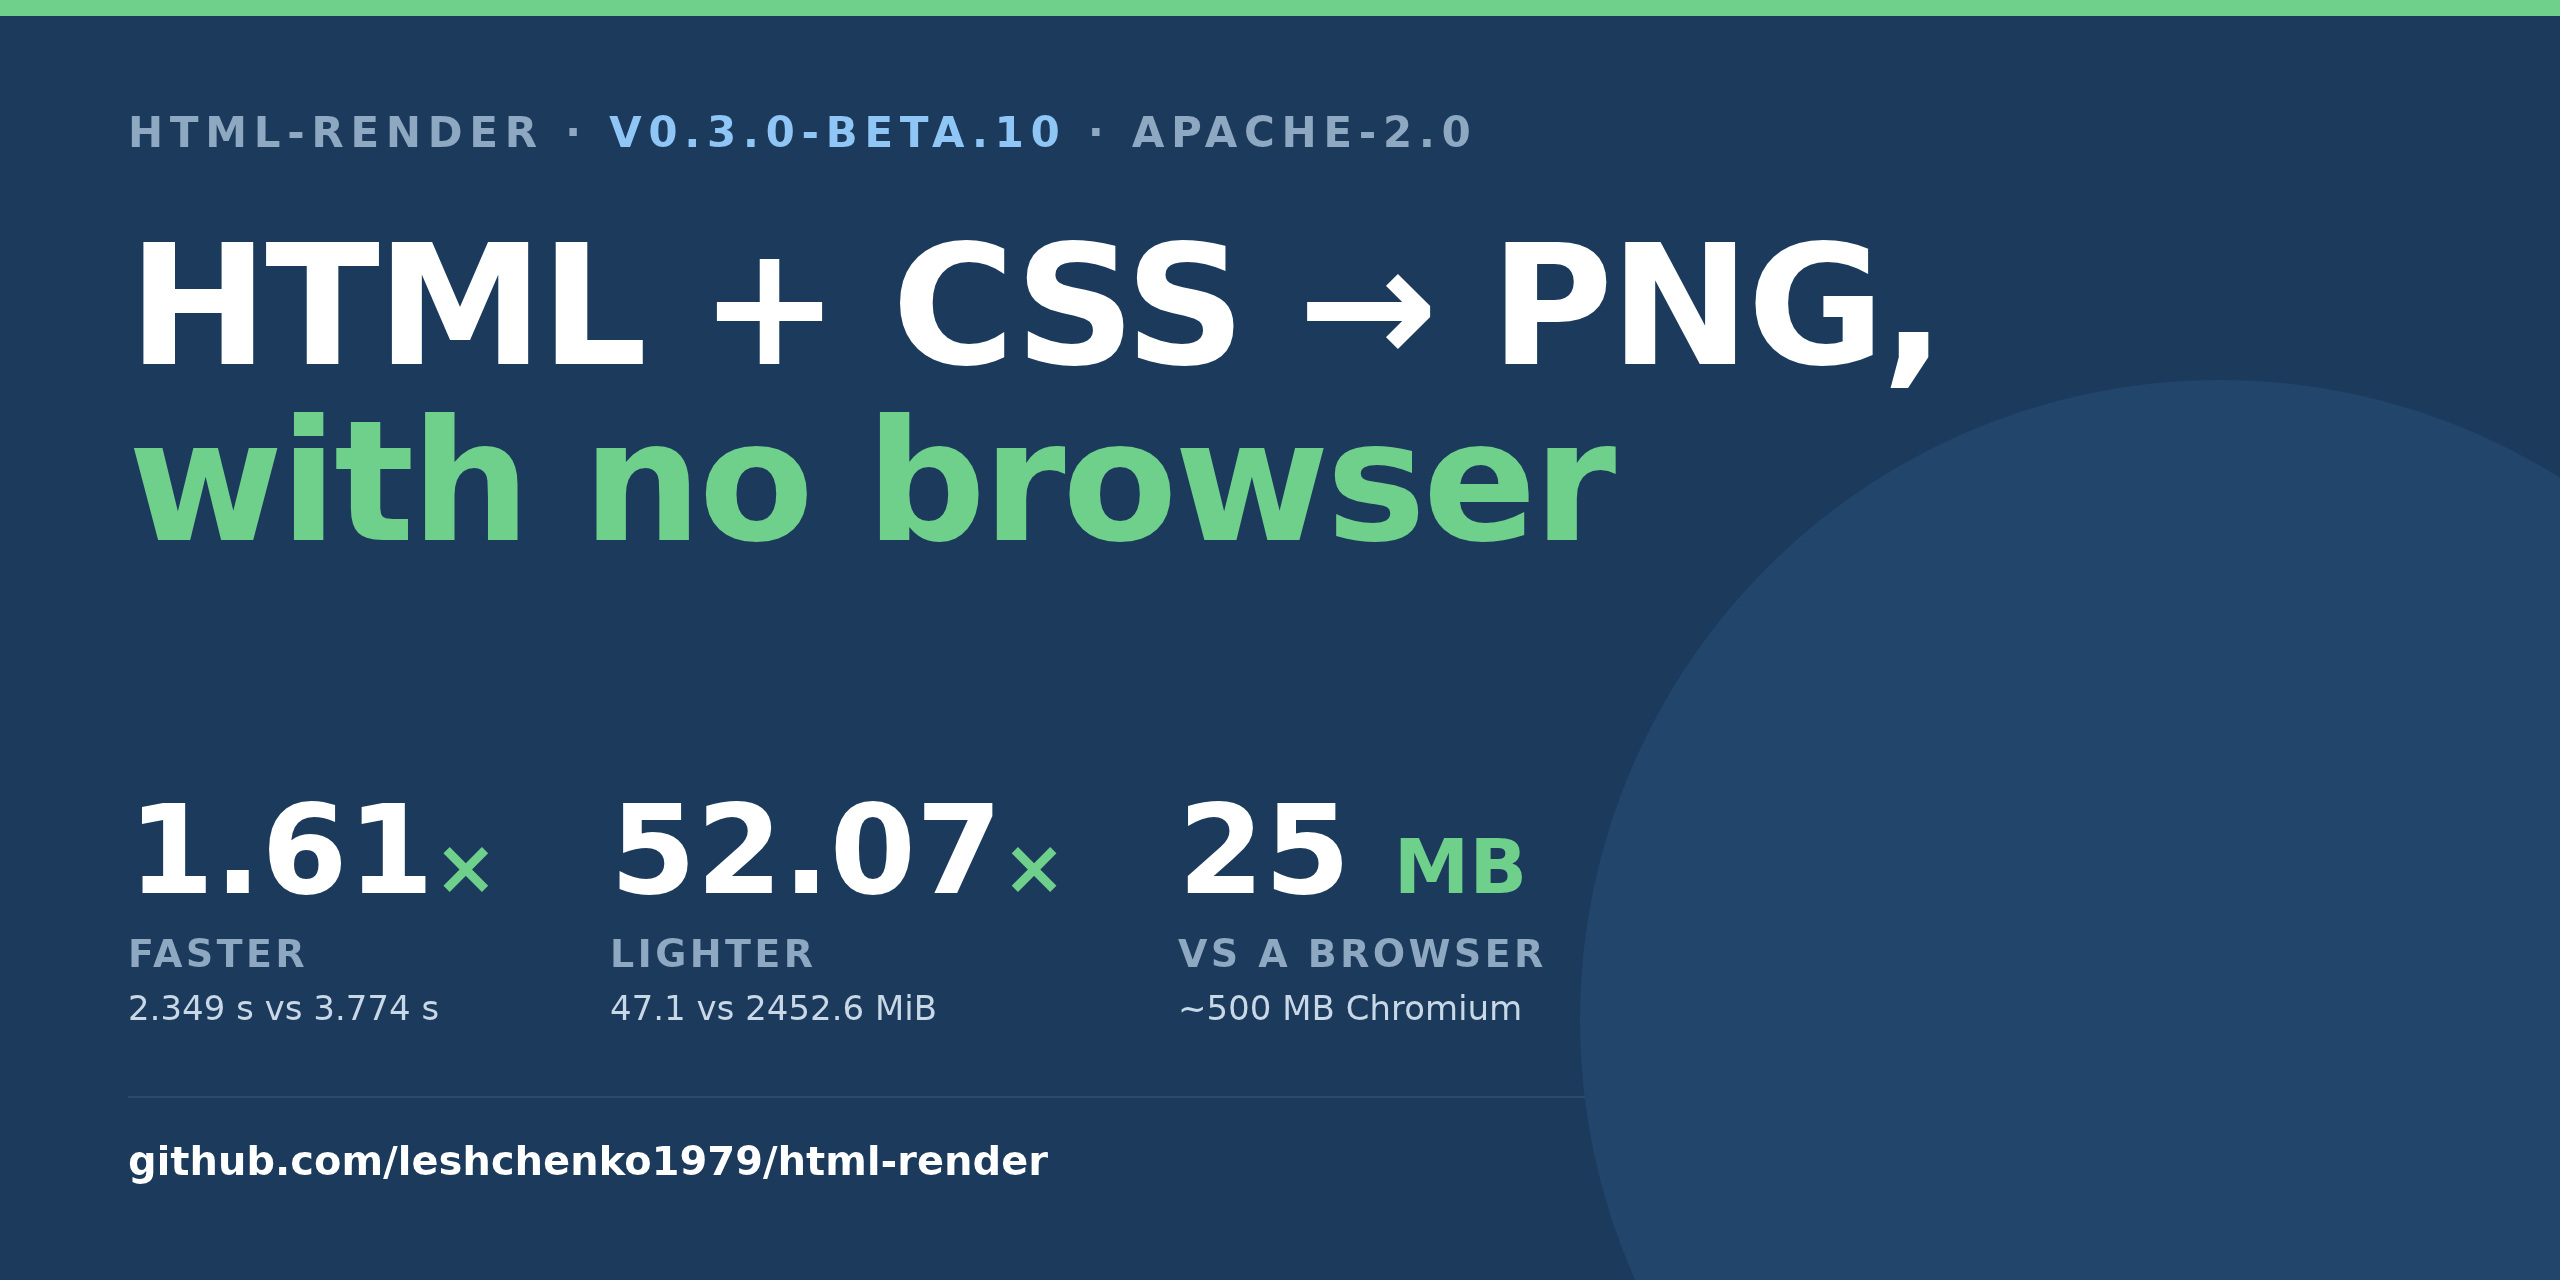
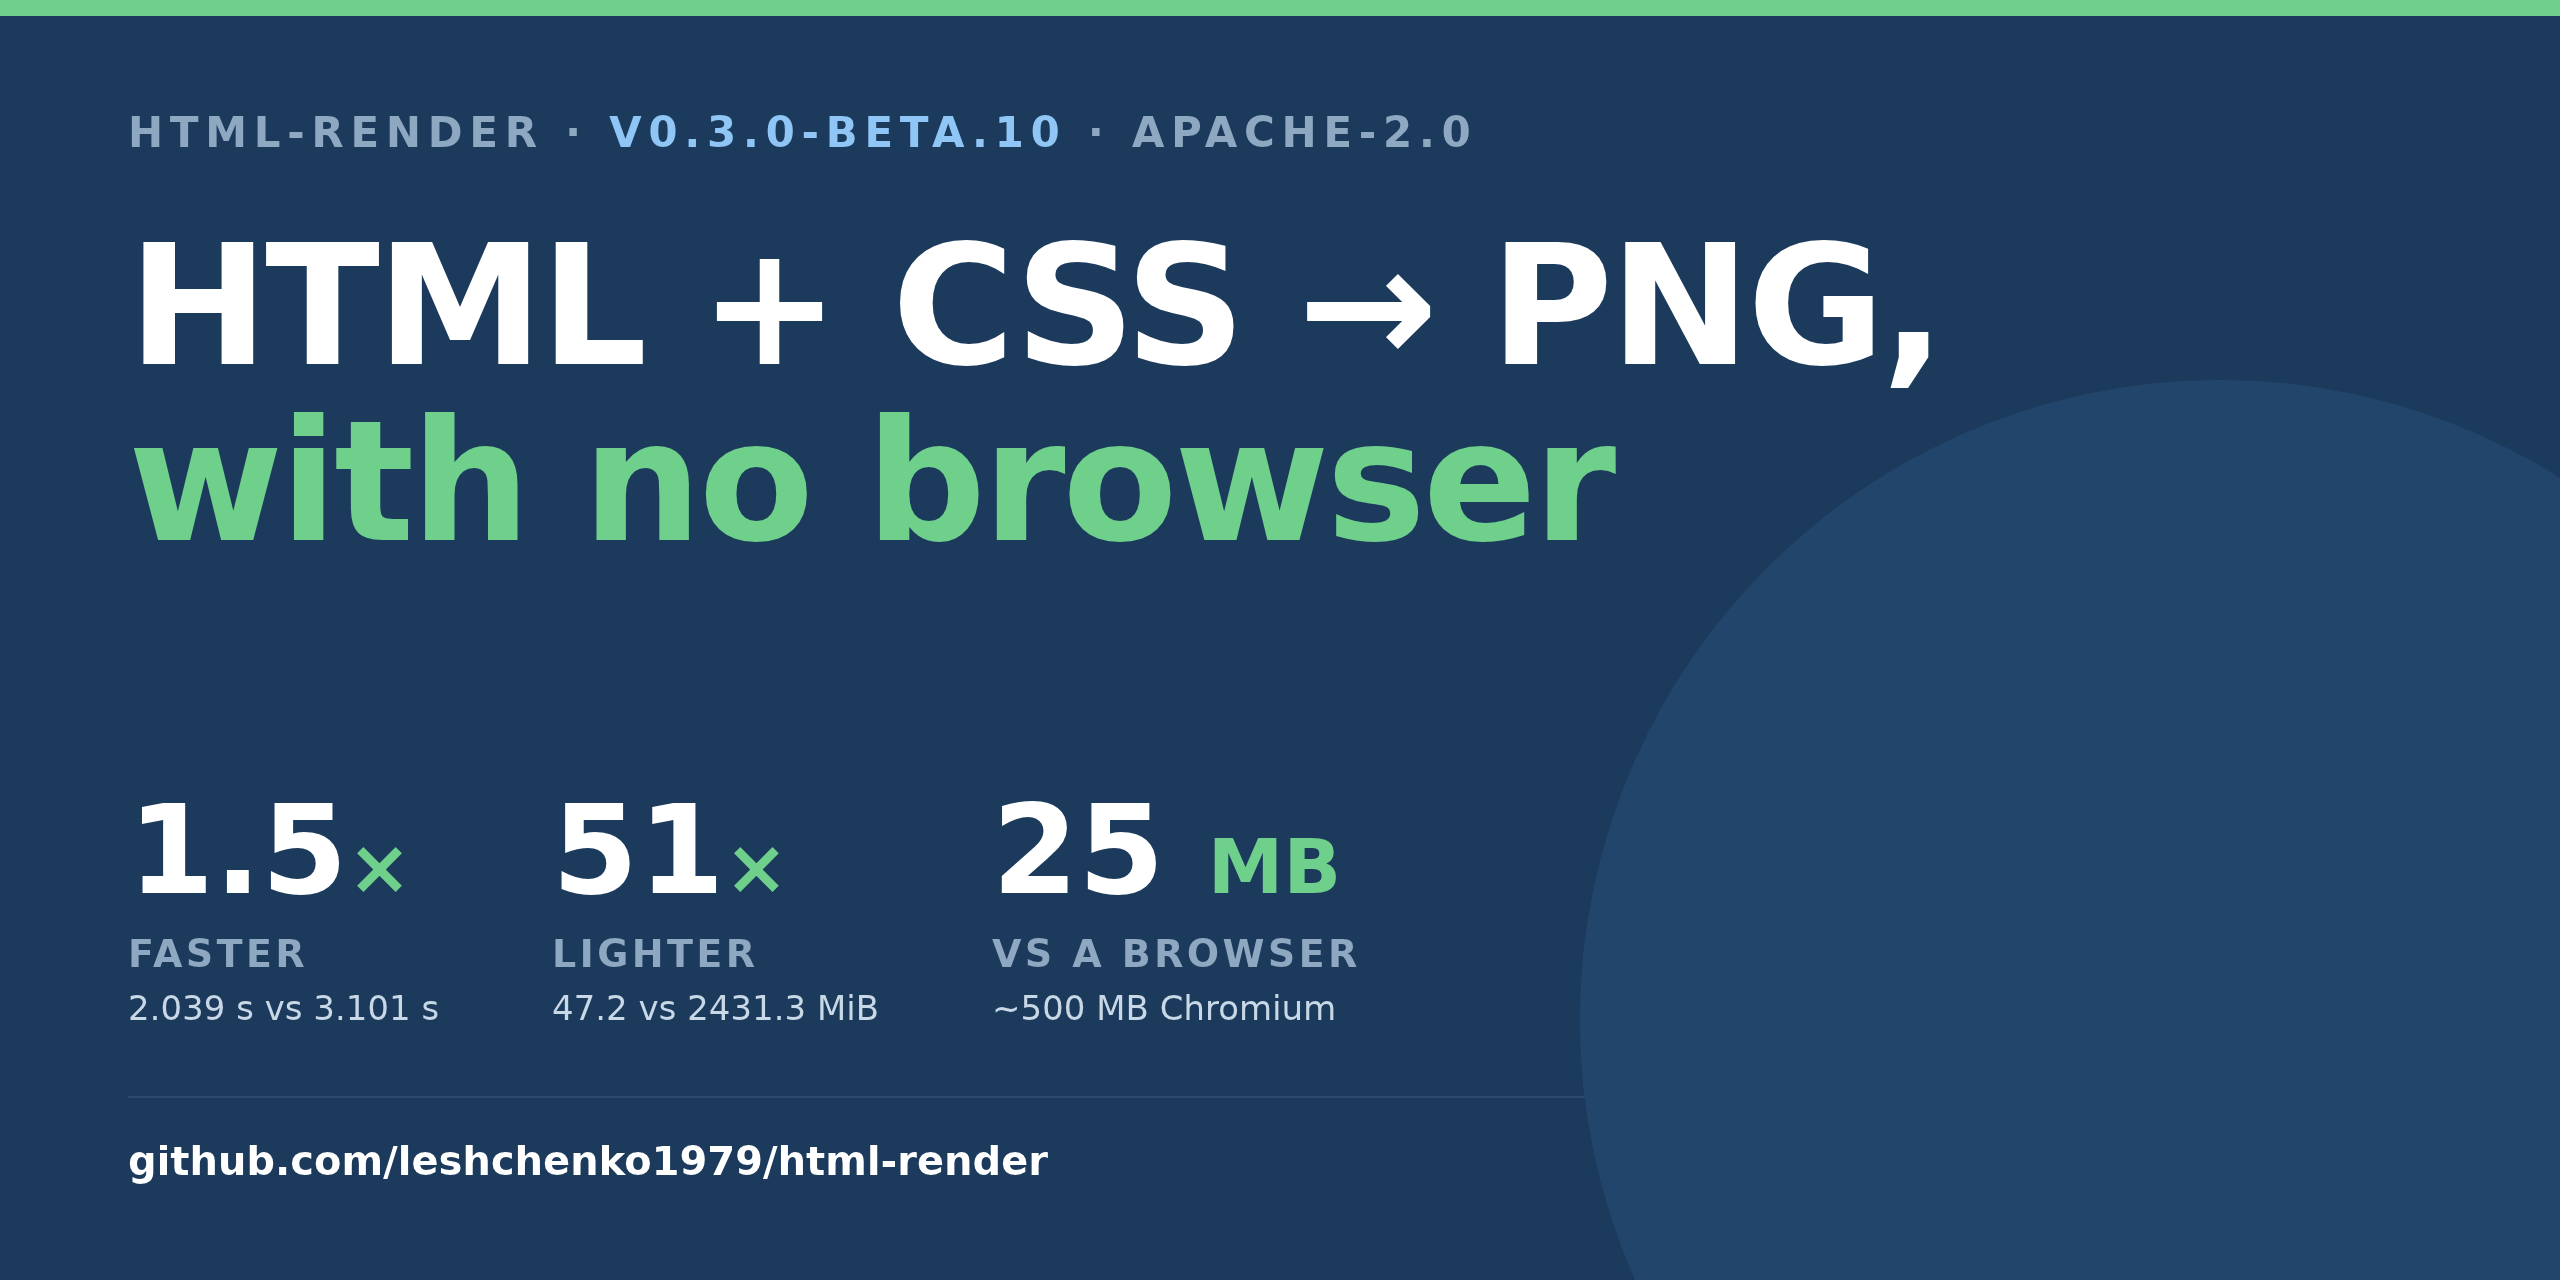
docs(bench): quote the run that measured determinism, not the one before it
The receipt behind every advertised figure is now run 43754284965 (7bfc62e),
the first run whose probe hashed every repeat. Four runs on one runner image,
all measuring the same deck (md5 5c71602d), say why a point value was never
safe:

  1. 43744837000: Chromium 3.186 s / 2336.1 MiB, ours 2.240 s / 37.9 MiB
     -> 1.42x wall, 61.64x tree RSS
  2. 43746767310: Chromium 3.774 s / 2452.6 MiB, ours 2.352 s / 37.7 MiB
     -> 1.60x, 65.06x
  3. 43752965645: Chromium 3.250 s / 2389.6 MiB, ours 2.292 s / 37.8 MiB
     -> 1.42x, 63.22x
  4. 43754284965: Chromium 3.101 s / 2431.3 MiB, ours 2.042 s / 37.7 MiB
     -> 1.52x, 64.49x

html-render moved 15.2% across those four and Chromium 21.7%, which falsifies
the sentence claiming the spread was the browser's alone: both engines move,
the browser more, and the ratio is why the claim is a range. The wall ratio
stayed inside 1.42-1.60x for every run, so the advertised 1.4-1.6x survives
the refresh; the memory floor moves 50x -> 51x because the floor is derived.

The hero and og assets carried five SECOND copies of the same two medians --
the right panel's four bar values and the terminal footer -- still showing the
previous run's numbers after the stat cards above them had been updated. All
five now quote the receipt. The history table's 1.61x for run 43746767310 was
hand-typed; 3.774/2.352 is 1.60x, and the fourth row is added.

Assets re-rendered with the binary the receipt names (sha256 de69ad53, the
[…]

diff --git a/assets/hero.html b/assets/hero.html
@@ -149,18 +149,18 @@ h1 span{color:var(--blue)}
 
       <div class="stats">
         <div class="stat">
-          <div class="v">1.61<em>×</em></div>
+          <div class="v">1.5<em>×</em></div>
           <div class="l">faster</div>
-          <div class="d">2.349 s vs 3.774 s</div>
+          <div class="d">2.039 s vs 3.101 s</div>
         </div>
         <div class="stat">
-          <div class="v">52.07<em>×</em></div>
+          <div class="v">51<em>×</em></div>
           <div class="l">lighter</div>
-          <div class="d">47.1 vs 2452.6 MiB</div>
+          <div class="d">47.2 vs 2431.3 MiB</div>
         </div>
         <div class="stat g">
           <div class="v">1 md5</div>
-          <div class="l">10 renders</div>
+          <div class="l">3 renders</div>
           <div class="d">one checksum</div>
         </div>
       </div>
@@ -174,35 +174,35 @@ h1 span{color:var(--blue)}
         <div class="metric">
           <div class="ml">Wall time · 8 slides at scale 2</div>
           <div class="bline">
-            <span class="bn">Chromium 151</span>
+            <span class="bn">Chromium 157</span>
             <span class="bt"><i style="width:100%"></i></span>
-            <span class="bv">3.774 s</span>
+            <span class="bv">3.101 s</span>
           </div>
           <div class="bline">
             <span class="bn">html-render</span>
-            <span class="bt"><i class="win" style="width:62.2%"></i></span>
-            <span class="bv win">2.349 s</span>
+            <span class="bt"><i class="win" style="width:65.8%"></i></span>
+            <span class="bv win">2.039 s</span>
           </div>
         </div>
 
         <div class="metric">
           <div class="ml">Peak RSS · whole process tree</div>
           <div class="bline">
-            <span class="bn">Chromium 151</span>
+            <span class="bn">Chromium 157</span>
             <span class="bt"><i style="width:100%"></i></span>
-            <span class="bv">2452.6 MiB</span>
+            <span class="bv">2431.3 MiB</span>
           </div>
           <div class="bline">
             <span class="bn">html-render</span>
             <span class="bt"><i class="win" style="width:1.9%"></i></span>
-            <span class="bv win">47.1 MiB</span>
+            <span class="bv win">47.2 MiB</span>
           </div>
         </div>
 
         <div class="metric">
           <div class="ml">Install size · what you ship</div>
           <div class="bline">
-            <span class="bn">Chromium 151</span>
+            <span class="bn">Chromium 157</span>
             <span class="bt"><i style="width:100%"></i></span>
             <span class="bv">~500 MB</span>
           </div>
@@ -233,7 +233,7 @@ h1 span{color:var(--blue)}
           <div class="o d">… 7 more, in document order</div>
         </div>
         <div class="tfoot">
-          One process, <b>8 slides</b>, <b>2.349 s</b>, <b>47.1 MiB</b> peak.
+          One process, <b>8 slides</b>, <b>2.039 s</b>, <b>47.2 MiB</b> peak.
         </div>
       </div>
 
@@ -243,7 +243,7 @@ h1 span{color:var(--blue)}
 
   <div class="foot">
     <div><b>github.com/leshchenko1979/html-render</b></div>
-    <div>4 vCPU · glibc 2.39 · reproducible with <b>tools/gates.py</b></div>
+    <div>4 vCPU · glibc 2.35 · reproducible with <b>tools/bench.py</b></div>
   </div>
 
 </div>

diff --git a/assets/og.html b/assets/og.html
@@ -65,14 +65,14 @@ h1 span{color:var(--green)}
 
   <div class="nums">
     <div class="n">
-      <div class="v">1.61<em>×</em></div>
+      <div class="v">1.5<em>×</em></div>
       <div class="l">faster</div>
-      <div class="d">2.349 s vs 3.774 s</div>
+      <div class="d">2.039 s vs 3.101 s</div>
     </div>
     <div class="n">
-      <div class="v">52.07<em>×</em></div>
+      <div class="v">51<em>×</em></div>
       <div class="l">lighter</div>
-      <div class="d">47.1 vs 2452.6 MiB</div>
+      <div class="d">47.2 vs 2431.3 MiB</div>
     </div>
     <div class="n">
       <div class="v">25 <em>MB</em></div>

diff --git a/GATES.md b/GATES.md
@@ -117,33 +117,52 @@ every process in the engine's tree**, which is what a container limit counts:
 
 | engine | wall | peak tree RSS |
 |---|---|---|
-| Chromium, one tall screenshot cut into eight slides | 3.774 s | 2452.6 MiB |
-| `--full` | **2.352 s** | **37.7 MiB** |
-| `--clip` (banded, one PNG per frame) | 2.386 s | 75.3 MiB |
-| `--clip --per-element` | 2.349 s | 47.1 MiB |
+| Chromium, one tall screenshot cut into eight slides | 3.101 s | 2431.3 MiB |
+| `--full` | **2.042 s** | **37.7 MiB** |
+| `--clip` (banded, one PNG per frame) | 2.067 s | 75.3 MiB |
+| `--clip --per-element` | 2.039 s | 47.2 MiB |
 
-Ratios against Chromium: **1.60×** wall and **65.06×** memory for `--full`,
-**1.58×** / **32.57×** for `--clip`, **1.61×** / **52.07×** for `--per-element`.
+Ratios against Chromium: **1.52×** wall and **64.49×** memory for `--full`,
+**1.50×** / **32.29×** for `--clip`, **1.52×** / **51.51×** for `--per-element`.
+
+The same probe, three times, on the same runner image and the same deck
+(`deck.html` md5 `5c71602d…` every time). A record, not a gate:
+
+| run | Chromium wall | html-render wall | ratio | Chromium tree RSS | html-render tree RSS | ratio |
+|---|---|---|---|---|---|---|
+| 43744837000 | 3.186 s | 2.240 s | 1.42× | 2336.1 MiB | 37.9 MiB | 61.64× |
+| 43746767310 | 3.774 s | 2.352 s | 1.60× | 2452.6 MiB | 37.7 MiB | 65.06× |
+| 43752965645 | 3.250 s | 2.292 s | 1.42× | 2389.6 MiB | 37.8 MiB | 63.22× |
+| 43754284965 | 3.101 s | 2.042 s | 1.52× | 2431.3 MiB | 37.7 MiB | 64.49× |
+
+The browser is the noisy side: 18.5 % across its own wall clock, against 5.0 %
+for html-render. So speed is stated as a range and memory as a floor — a point
+figure would be whichever run the receipt happened to catch.
 
 Two things this table does not claim.
 
 **Speed is a modest win, and the earlier 2.49× was not.** That figure came from a
 private deck where the Chromium harness also paid 2.94 s of settle sleeps;
 removing them left 1.94×. The probe drives Chromium as cheaply as it can be
-driven — one tall screenshot, no sleeps — so 1.6× is the honest race.
+driven — one tall screenshot, no sleeps — so 1.4–1.6× is the honest race.
 
 **The memory ratio is larger than what was published before, for a method
 reason, not a code change.** Earlier rows compared html-render's footprint with
-Chromium's *largest single process* (858 MiB). Summing the tree gives 2452.6 MiB
+Chromium's *largest single process* (858 MiB). Summing the tree gives 2389.6 MiB
 on the same engine, because the browser, GPU and renderer processes all hold
 memory at once. The undercount was measured before the probe existed: on
 `assets/demo-deck.html` Chromium's tree peaked at 1703.5–1826.2 MiB while its
 largest process read 297.1–299.2 MiB.
 
 `--clip` costs more than `--per-element` because it keeps one full-height canvas
-per band alive; both are `html-render` against itself, so neither is a
-cross-engine claim. They differ on 3,551 of 44,236,800 pixels (0.0080 %), max
-channel delta 2/255 — antialiasing at fractional offsets.
+per band alive. Both are `html-render` against itself, so neither is a
+cross-engine claim: no ratio in this section pits the two modes against each
+other.
+
+An earlier version of this paragraph put a pixel count on how far the two modes
+diverge. That denominator is a document this repo does not generate, so no
+reader could reproduce the figure — withdrawn, and the probe does not compare
+the two modes.
 
 ### What is actually gated
 

diff --git a/README.md b/README.md
@@ -141,25 +141,34 @@ as the median, peak RSS as the **sum of every process the engine spawned**:
 
 | measurement | Chromium | html-render | ratio |
 |---|---|---|---|
-| wall clock, `--full` | 3.774 s | 2.352 s | **1.60×** |
-| peak RSS, `--full` | 2452.6 MiB | 37.7 MiB | **65.06×** |
-| wall clock, `--clip` | 3.774 s | 2.386 s | **1.58×** |
-| peak RSS, `--clip` | 2452.6 MiB | 75.3 MiB | **32.57×** |
-| wall clock, `--per-element` | 3.774 s | 2.349 s | **1.61×** |
-| peak RSS, `--per-element` | 2452.6 MiB | 47.1 MiB | **52.07×** |
+| wall clock, `--full` | 3.101 s | 2.042 s | **1.52×** |
+| peak RSS, `--full` | 2431.3 MiB | 37.7 MiB | **64.49×** |
+| wall clock, `--clip` | 3.101 s | 2.067 s | **1.50×** |
+| peak RSS, `--clip` | 2431.3 MiB | 75.3 MiB | **32.29×** |
+| wall clock, `--per-element` | 3.101 s | 2.039 s | **1.52×** |
+| peak RSS, `--per-element` | 2431.3 MiB | 47.2 MiB | **51.51×** |
 
 Read the memory column and the speed column differently.
-**Speed is modest: about 1.6×, and that is the whole claim.**
+
+**Speed is modest: 1.4–1.6× across runs, and that is the whole claim.**
+Both engines move between runs, and the browser moves more. Four runs of this
+probe on one GitHub runner image (43744837000, 43746767310, 43752965645,
+43754284965) held html-render between 2.042 s and 2.352 s, a 15 % spread, while
+headless Chromium moved from 3.101 s to 3.774 s, a 22 % spread. The ratio you
+measure therefore depends mostly on how fast the browser happened to run, which
+is why the claim is a range rather than a point. Run the probe yourself and you
+should land inside it.
 An earlier README advertised 2.49×, taken on an external deck where the
 Chromium harness also paid 2.94 s of settle sleeps; strip that out and it was
 1.94×. The probe drives Chromium as cheaply as it can be driven — one tall
-screenshot cut into slides, no sleeps — so 1.6× is what survives a fair race.
+screenshot cut into slides, no sleeps — so 1.4–1.6× is what survives a fair race.
 
-**Memory is where the difference lives.** Earlier figures of 9.19× compared
-html-render's whole footprint against Chromium's *fattest single process*.
-The probe sums the entire process tree on both sides, which is what a container
-limit actually counts: Chromium peaks at 2452.6 MiB across its renderer, GPU and
-browser processes, html-render at 37.7 MiB in one process.
+**Memory is where the difference lives, and it is steady enough to state as a
+floor: at least 51×.** Across the same four runs html-render's peak held
+between 37.7 MiB and 37.9 MiB — 0.5 % — while Chromium's moved between
+2336 MiB and 2453 MiB. Earlier figures of 9.19× compared html-render's whole
+footprint against Chromium's *fattest single process*; the probe sums the entire
+process tree on both sides, which is what a container limit actually counts.
 
 Host, method and the run behind these figures: [GATES.md](GATES.md#cost).
 

diff --git a/bench/README.md b/bench/README.md
@@ -8,18 +8,18 @@ edited by hand: every figure the README advertises is read from it by
 
 | | |
 |---|---|
-| Workflow run | [43746767310](https://github.com/leshchenko1979/html-render/actions/runs/43746767310) (`parity`, `f807f7c`) |
+| Workflow run | [43754284965](https://github.com/leshchenko1979/html-render/actions/runs/43754284965) (`parity`, `7bfc62e`) |
 | Artefact | `bench-results`, step *Benchmark against Chromium* |
-| Measured | 2026-11-15T18:28:59Z |
+| Measured | 2026-11-15T19:48:44Z |
 | Host | `runnervmy75tu`, Ubuntu 24.04, glibc 2.35, 4 vCPU, 15,989 MiB |
 | Probe | `html-render 0.3.0-beta.10`, `sha256 de69ad53…` |
 | Browser | Google Chrome 157.0.8103.78 |
 
-The *Measured* instant and the probe version above are asserted against this
-file by `tools/check_claims.py`, so they cannot drift from the receipt they
-describe. This receipt predates the `run` block in `tools/bench.py`, which is why
-the run id is recorded here by hand rather than read from the JSON; the next
-refresh carries `run.id` and `run.sha` in-file.
+The run id, commit, *Measured* instant, host and probe version above are
+asserted against this file by `tools/check_claims.py`, so they cannot drift from
+the receipt they describe. `tools/bench.py` writes `run.id`, `run.sha` and
+`run.ref` into the receipt itself, so this table renders fields the JSON already
+holds rather than being the only copy of them.
 
 ## Reproduce it
 
@@ -82,6 +82,10 @@ Identically, deliberately:
 
 - The **speed** ratio is modest and the deck is small. It is one document, not a
   workload class; a heavier page changes both sides.
+- **Speed moves between runs, and the browser is why.** Three runs of this probe
+  on one runner image held html-render's wall clock to 5.0 % while headless
+  Chromium's moved 18.5 %, so the README states speed as a range and memory as a
+  floor. A single run's ratio is a sample, not a constant.
 - The **memory** ratio is the striking one, and it is large because the
   instrument changed: earlier figures were largest-single-process maxima, which
   flatter a multi-process browser. Tree RSS is what a host has to hold.
